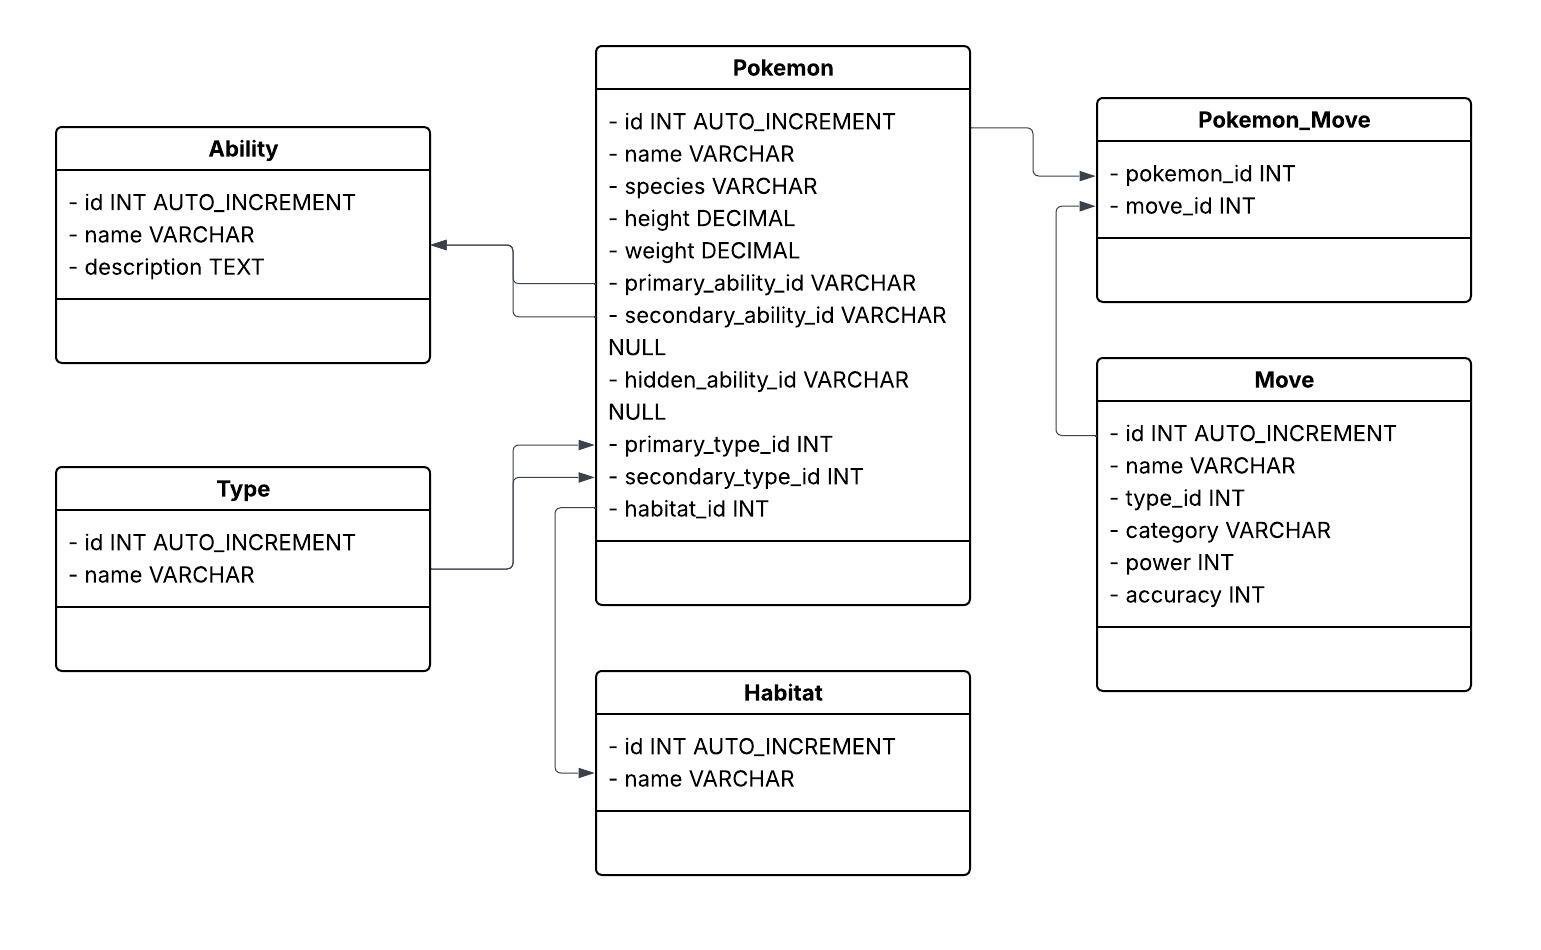
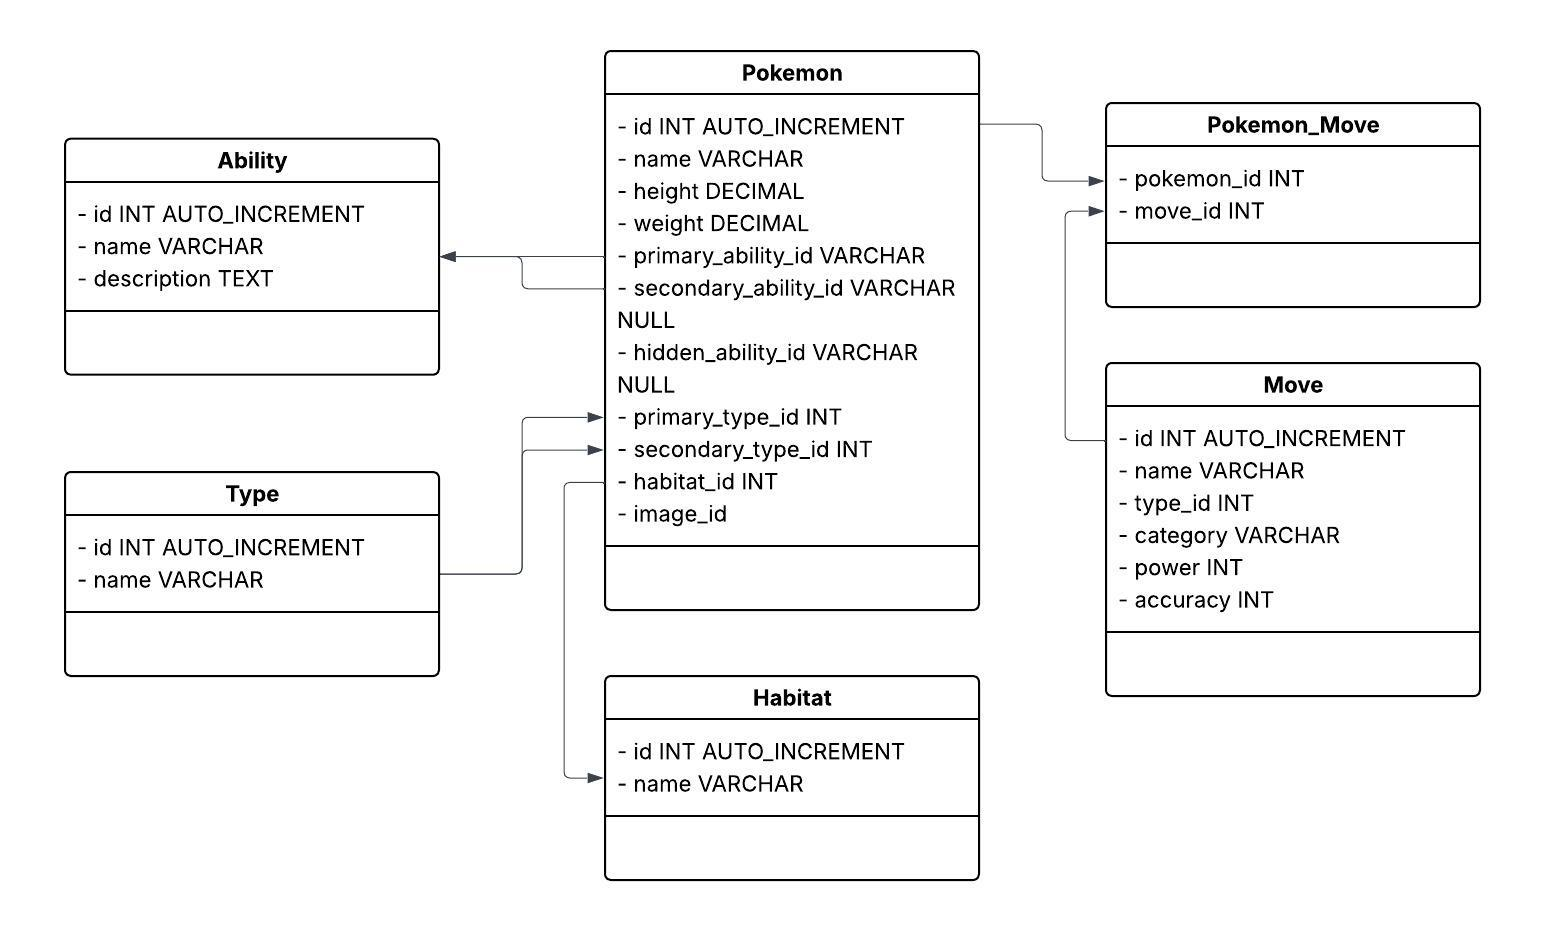
update schema_diagram, add image_id support to API-endpoints

diff --git a/src/classes/gateways/PokemonGateway.php b/src/classes/gateways/PokemonGateway.php
@@ -53,14 +53,16 @@ class PokemonGateway implements GatewayInterface
         hidden_ability_id,
         primary_type_id,
         secondary_type_id,
-        habitat_id) VALUES (:name,
+        habitat_id,
+        image_id) VALUES (:name,
         :height,
         :weight,
         :primary_ability_id,
         :hidden_ability_id,
         :primary_type_id,
         :secondary_type_id,
-        :habitat_id)";
+        :habitat_id,
+        :image_id)";
 
         $stmt = $this->conn->prepare($sql);
 
@@ -72,6 +74,7 @@ class PokemonGateway implements GatewayInterface
         $stmt->bindValue(':primary_type_id', $data["primary_type_id"], \PDO::PARAM_INT);
         $stmt->bindValue(':secondary_type_id', $data["secondary_type_id"] ?? null, \PDO::PARAM_INT);
         $stmt->bindValue(':habitat_id', $data["habitat_id"], \PDO::PARAM_INT);
+        $stmt->bindValue(':image_id', $data["image_id"], \PDO::PARAM_INT);
 
         $stmt->execute();
 
